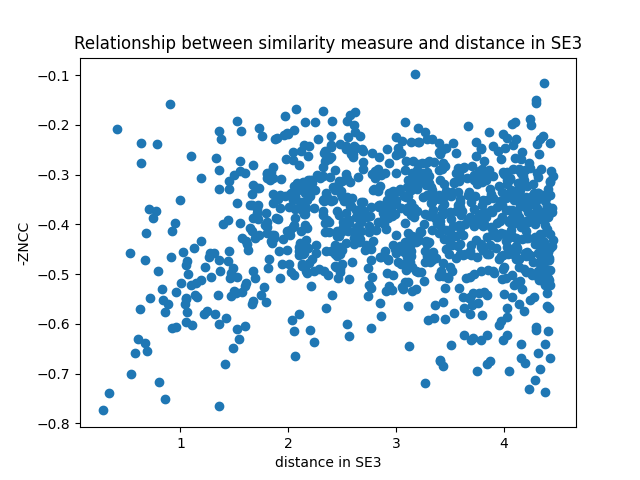
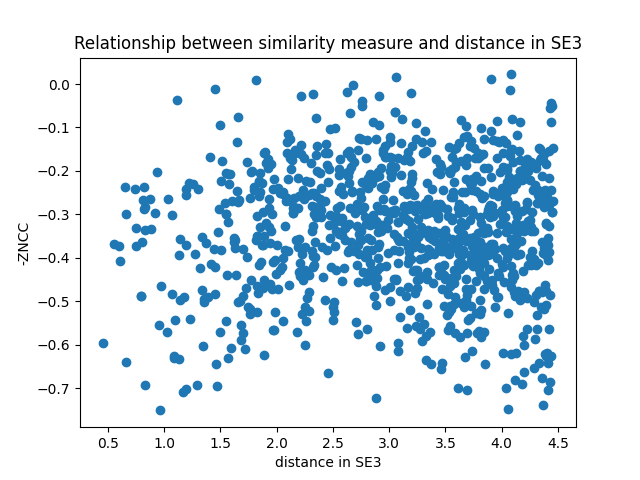
fixed bug in matrix version of transformation code - it works rather well now!

diff --git a/register.py b/register.py
@@ -169,8 +169,8 @@ def generate_new_drr(cache_directory: str, ct_volume_path: str, volume_data: tor
                      *, device, save_to_cache=True):
     # transformation = Transformation(torch.tensor([0., 0., 0.]),
     #                                 torch.tensor([10., 0., 0.]) + Transformation.zero().translation).to(device=device)
-    transformation = Transformation.zero(device=volume_data.device)
-    # transformation = Transformation.random(device=volume_data.device)
+    # transformation = Transformation.zero(device=volume_data.device)
+    transformation = Transformation.random(device=volume_data.device)
     print("Generating DRR at transformation:\n\tr = {}\n\tt = {}...".format(transformation.rotation,
                                                                             transformation.translation))
 
@@ -311,7 +311,7 @@ def register(path: str | None, *, cache_directory: str, load_cached: bool = True
         #                 plot=True)
     ))
 
-    if False:
+    if True:
         n = 100
         angle0s = torch.linspace(transformation_ground_truth.rotation[0] - torch.pi,
                                  transformation_ground_truth.rotation[0] + torch.pi, n)
@@ -333,7 +333,7 @@ def register(path: str | None, *, cache_directory: str, load_cached: bool = True
         axes.axis('square')
         plt.colorbar(mesh)
 
-    if False:
+    if True:
         n = 1000
         nznccs = torch.zeros(n)
         distances = torch.zeros(n)
@@ -349,7 +349,7 @@ def register(path: str | None, *, cache_directory: str, load_cached: bool = True
         axes.set_ylabel("-ZNCC")
         axes.set_title("Relationship between similarity measure and distance in SE3")
 
-    if False:
+    if True:
         def objective(params: torch.Tensor) -> torch.Tensor:
             return -evaluate(fixed_image, sinogram3d,
                              transformation=Transformation(params[0:3], params[3:6]).to(device=device),

diff --git a/registration/geometry.py b/registration/geometry.py
@@ -68,15 +68,19 @@ def generate_drr(volume_data: torch.Tensor, *, transformation: Transformation, v
     directions: torch.Tensor = torch.nn.functional.normalize(
         torch.stack((detector_xs, detector_ys, torch.zeros_like(detector_xs)), dim=-1) - source_position, dim=-1)
     volume_diag: torch.Tensor = (
-                torch.tensor(volume_data.size(), dtype=torch.float32, device=device) * voxel_spacing).flip(dims=(0,))
+            torch.tensor(volume_data.size(), dtype=torch.float32, device=device) * voxel_spacing).flip(dims=(0,))
     volume_diag_length: torch.Tensor = volume_diag.norm()
     lambda_start: torch.Tensor = (source_position - transformation.translation).norm() - .5 * volume_diag_length
     lambda_end: torch.Tensor = lambda_start + volume_diag_length
     step_size: float = (lambda_end - lambda_start).item() / float(samples_per_ray)
+
+    h_matrix_inv = transformation.inverse().get_h(device=device)
     deltas = directions * step_size
-    deltas = transformation.inverse()(deltas, exclude_translation=True)
+    deltas_homogeneous = torch.cat((deltas, torch.zeros_like(deltas[..., 0], device=device).unsqueeze(-1)), dim=-1)
+    deltas = torch.einsum('ji,...i->...j', h_matrix_inv, deltas_homogeneous)[..., 0:3]
     starts = source_position + lambda_start * directions
-    starts = transformation.inverse()(starts)
+    starts_homogeneous = torch.cat((starts, torch.ones_like(starts[..., 0], device=device).unsqueeze(-1)), dim=-1)
+    starts = torch.einsum('ji,...i->...j', h_matrix_inv, starts_homogeneous)[..., 0:3]
 
     deltas_texture = 2. * deltas / volume_diag
     grid = (2. * starts / volume_diag).to(dtype=torch.float32)

diff --git a/registration/grangeat.py b/registration/grangeat.py
@@ -99,11 +99,11 @@ def resample_slice(sinogram3d: torch.Tensor, *, input_range: Sinogram3dRange, tr
 
     output_grid_2d = Sinogram2dGrid(*torch.meshgrid(output_grid.phi, output_grid.r))
 
-    output_grid_cartesian_2d = geometry.fixed_polar_to_moving_cartesian(output_grid_2d, scene_geometry=scene_geometry,
-                                                                        transformation=transformation)
+    # output_grid_cartesian_2d = geometry.fixed_polar_to_moving_cartesian(output_grid_2d, scene_geometry=scene_geometry,
+    #                                                                     transformation=transformation)
 
-    # output_grid_cartesian_2d = geometry.fixed_polar_to_moving_cartesian2(output_grid_2d, scene_geometry=scene_geometry,
-    #                                                                      transformation=transformation)
+    output_grid_cartesian_2d = geometry.fixed_polar_to_moving_cartesian2(output_grid_2d, scene_geometry=scene_geometry,
+                                                                         transformation=transformation)
 
     output_grid_sph_2d = geometry.moving_cartesian_to_moving_spherical(output_grid_cartesian_2d)
 

diff --git a/registration/common.py b/registration/common.py
@@ -38,7 +38,7 @@ class Transformation(NamedTuple):
 
     def inverse(self) -> 'Transformation':
         r_inverse = kornia.geometry.conversions.axis_angle_to_rotation_matrix(-self.rotation.unsqueeze(0))[0]
-        r_inverse_t = torch.einsum('kl,...l->...k', r_inverse, self.translation.unsqueeze(0))
+        r_inverse_t = torch.einsum('kl,...l->...k', r_inverse, self.translation.unsqueeze(0))[0]
         return Transformation(-self.rotation, -r_inverse_t)
 
     def __call__(self, positions_cartesian: torch.Tensor, exclude_translation: bool = False) -> torch.Tensor:
@@ -116,7 +116,7 @@ class SceneGeometry(NamedTuple):
         assert central_ray.size() == torch.Size([3])
 
         m_matrix: torch.Tensor = torch.outer(torch.hstack((source_position, torch.tensor([1.], device=device))),
-                                             central_ray) + central_ray.norm() * torch.vstack(
+                                             central_ray) + torch.dot(central_ray, central_ray) * torch.vstack(
             (torch.eye(3, device=device), torch.zeros((1, 3), device=device)))
 
         return torch.hstack((m_matrix, -torch.matmul(m_matrix, source_position.unsqueeze(-1))))
